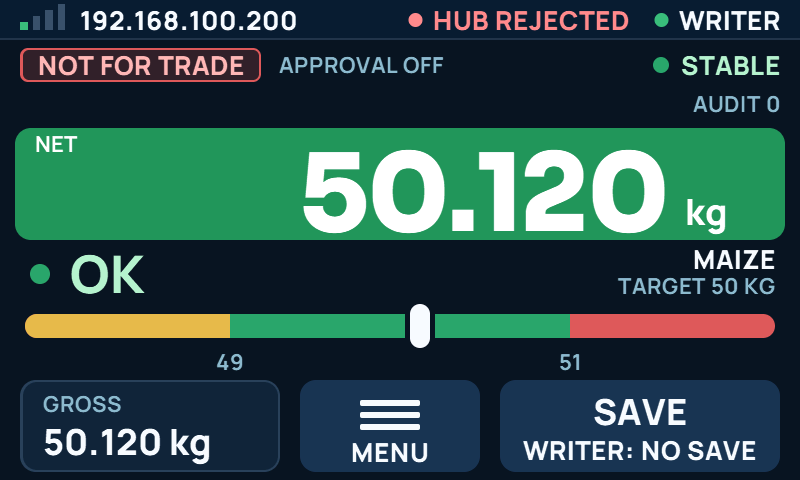
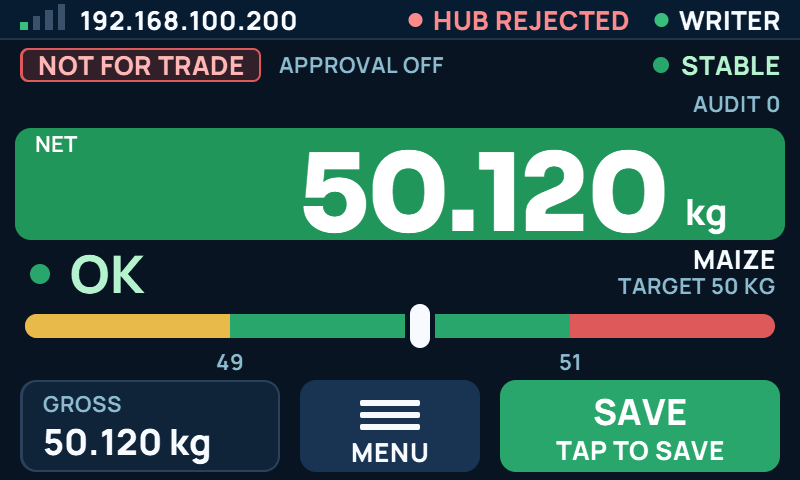
feat(wsoft): a Writer picks its own product and saves through the weigh board
Rhyno, 14 Nov 2026: on the yellow Writer board a product pick was wiped at once
(the Writer copied the weigh board's empty product every loop), and SAVE said
WRITER: NO SAVE.
- Product: the Writer follows the weigh board only when the weigh board picks or
  changes a product; a pick made on the Writer stays until then.
- SAVE: a tap on a Writer sends {"cmd":"save"} on the open /ws/wsoftFeed socket;
  the weigh board saves it with all its own checks, so each load is still
  counted once. The feed carries save_waiting, save_n and save_result so the
  Writer's button shows SAVED / NOT STABLE / ... like the weigh board's.
- Writer SAVE line: TAP TO SAVE, results from the weigh board, SAVED without a
  number (the number lives on the weigh board). Reference, presets, golden CRCs
  and test updated.

Changed region(s): [[0.625, 0.7812, 1.0, 1.0]]

diff --git a/tools/wsoft-ui/ref.js b/tools/wsoft-ui/ref.js
@@ -524,12 +524,13 @@ const WsoftUi = (() => {
     m.pointer = pr && S.linked && !S.alarm && S.hold !== 'blank' ? pointerOf(net, pr.low, pr.high) : -1;
     m.gross = S.linked ? fmtW(S.gross, S.decimals) + ' ' + S.unit : '----';
     const r = S.save.recent;
-    if (S.source === 'WRITER') { m.save_line = 'WRITER: NO SAVE'; m.save_look = LOOK_BTN; }
+    const writer = S.source === 'WRITER';
+    if (writer && r && r.result === 'SAVED') { m.save_line = 'SAVED'; m.save_look = LOOK_ON; }
     else if (r && r.result === 'SAVED') { m.save_line = 'SAVED #' + r.seq; m.save_look = LOOK_ON; }
     else if (r) { m.save_line = RESULT[r.result]; m.save_look = r.result === 'ALREADY' || r.result === 'NEED_ZERO' ? LOOK_BTN : LOOK_BAD; }
     else if (S.waiting === 'ALREADY') { m.save_line = 'TAKE LOAD OFF'; m.save_look = LOOK_BTN; }
-    else if (S.save.pending > 0) { m.save_line = S.save.pending + ' TO SEND'; m.save_look = LOOK_ON; }
-    else { m.save_line = S.save.auto ? 'AUTO SAVE ON' : 'TAP TO SAVE'; m.save_look = LOOK_ON; }
+    else if (!writer && S.save.pending > 0) { m.save_line = S.save.pending + ' TO SEND'; m.save_look = LOOK_ON; }
+    else { m.save_line = !writer && S.save.auto ? 'AUTO SAVE ON' : 'TAP TO SAVE'; m.save_look = LOOK_ON; }
     m.title = ['', 'MENU', 'ENTER PIN', 'APPROVAL', 'WI-FI'][m.page];
     m.message = S.message;
     m.tiles = [];

diff --git a/src/main.cpp b/src/main.cpp
@@ -19,6 +19,7 @@
 #if FT_ENABLED(FT_WSOFT)
 #include <wsoft_screen.h>
 #include <hilo.h>
+#include <weighings.h>
 #endif
 #include "VersionService.h"
 #include "UartModeService.h"
@@ -383,6 +384,8 @@ void setup() {
     uartModeService->setForwarderService(serialWriterForwarderService);
     uartModeService->applyMode();
     wsoft_screen_set_line_reader(wsoftReadWriterWeight);
+    // SAVE on a Writer is saved by the weigh board (Rhyno, 14 Nov 2026), counted once.
+    weighings_set_remote_save(SerialWriterForwarderService::requestSave);
     Serial.println(F("[9/10] W-Soft role: Writer (weight from a weigh board, out of the port)"));
   } else if (wsoftBootSource == WSOFT_SOURCE_RS232) {
     // RS232 scale: the existing Serial reader owns Serial1 (its page sets baud, format
@@ -559,9 +562,37 @@ void loop() {
   if (serialWriterService) serialWriterService->loop();
   if (serialWriterForwarderService) {
     serialWriterForwarderService->loop();
-    // Writer: the same product as the weigh board, so screen, relays and Hub match.
+    // Writer: follows the weigh board's product when the weigh board picks or changes one, so
+    // screen, relays and Hub match. Between changes a product picked on this board stays
+    // (Rhyno, 14 Nov 2026: the Writer picks its own product too). A weigh board with no
+    // product at first contact leaves this board's pick alone.
+    static bool feedProductSeen = false;
+    static String feedProduct;
     String product;
-    if (serialWriterForwarderService->latestProduct(&product)) hilo_follow(product.c_str());
+    if (serialWriterForwarderService->latestProduct(&product)) {
+      if (feedProductSeen ? product != feedProduct : product.length() > 0) hilo_follow(product.c_str());
+      feedProductSeen = true;
+      feedProduct = product;
+    }
+    // Writer: the weigh board's "what stops a save" and each of its Save results on this
+    // screen. No feed for 3 s = no signal (the same 3 s rule as the weight).
+    static uint32_t saveCountSeen = 0;
+    static bool saveCountKnown = false;
+    int saveWaiting = 0, saveResult = 0;
+    uint32_t saveCount = 0;
+    char feedWeight[24];
+    uint32_t feedMs = 0;
+    int feedUnit = 0;
+    bool feedLive = serialWriterForwarderService->latestWeight(feedWeight, sizeof feedWeight, &feedMs, &feedUnit) &&
+                    millis() - feedMs < 3000;
+    if (serialWriterForwarderService->latestSaveStatus(&saveWaiting, &saveCount, &saveResult) && feedLive) {
+      weighings_remote_status((WsoftSaveResult)saveWaiting);
+      if (saveCountKnown && saveCount != saveCountSeen) weighings_remote_result((WsoftSaveResult)saveResult);
+      saveCountKnown = true;
+      saveCountSeen = saveCount;
+    } else {
+      weighings_remote_status(WSOFT_SAVE_NO_SIGNAL);
+    }
   }
   if (wsoftStatusService) wsoftStatusService->loop();
 #if FT_ENABLED(FT_WSOFT_RELAY)

diff --git a/lib/wsoft_esp/src/weighings.cpp b/lib/wsoft_esp/src/weighings.cpp
@@ -21,6 +21,9 @@ static WsoftSaveResult last_result = WSOFT_SAVE_NONE;
 static uint32_t last_result_ms = 0;
 static TradeWeight last_saved;
 static WsoftSaveResult waiting = WSOFT_SAVE_NONE;  // under lock
+static uint32_t result_count = 0;                   // under lock: Save results since boot
+static void (*remote_save)() = nullptr;             // Writer role: Save taps go to the weigh board
+static WsoftSaveResult remote_waiting = WSOFT_SAVE_NO_SIGNAL;  // under lock
 
 // Screen task only.
 static WsoftWeighingSaver saver;
@@ -266,9 +269,10 @@ WsoftSaveResult weighings_update(bool linked, bool fresh, bool alarm, int32_t va
   if (result == WSOFT_SAVE_SAVED) store_saved(saved, for_trade, tare_value, hilo);
 
   portENTER_CRITICAL(&lock);
-  waiting = saver.waiting();
+  waiting = remote_save != nullptr ? remote_waiting : saver.waiting();
   if (tapped) save_answered = requests;
   if (result != WSOFT_SAVE_NONE) {
+    result_count++;
     last_result = result;
     last_result_ms = millis();
   }
@@ -291,9 +295,37 @@ WsoftSaveResult weighings_update(bool linked, bool fresh, bool alarm, int32_t va
 }
 
 void weighings_request_save() {
+  if (remote_save != nullptr) {
+    remote_save();
+    return;
+  }
   portENTER_CRITICAL(&lock);
   save_requests++;
   portEXIT_CRITICAL(&lock);
+}
+
+void weighings_set_remote_save(void (*fn)()) { remote_save = fn; }
+
+void weighings_remote_status(WsoftSaveResult status) {
+  portENTER_CRITICAL(&lock);
+  remote_waiting = status;
+  portEXIT_CRITICAL(&lock);
+}
+
+void weighings_remote_result(WsoftSaveResult result) {
+  if (result == WSOFT_SAVE_NONE) return;
+  portENTER_CRITICAL(&lock);
+  last_result = result;
+  last_result_ms = millis();
+  portEXIT_CRITICAL(&lock);
+  WSOFT_LOG.printf("WEIGH weigh board answered the Save: %s\n", wsoft_save_result_text(result));
+}
+
+uint32_t weighings_result_count() {
+  portENTER_CRITICAL(&lock);
+  uint32_t n = result_count;
+  portEXIT_CRITICAL(&lock);
+  return n;
 }
 
 WsoftSaveResult weighings_save(uint32_t timeout_ms, TradeWeight *saved) {

diff --git a/src/examples/serialwriter/SerialWriterForwarderService.cpp b/src/examples/serialwriter/SerialWriterForwarderService.cpp
@@ -94,6 +94,15 @@ void SerialWriterForwarderService::loop() {
       _backoffMs = 1000;
       _nextRetryMs = now;
     }
+    if (_saveRequested) {
+      _saveRequested = false;
+      if (_wsClient.isConnected()) {
+        _wsClient.sendTXT("{\"cmd\":\"save\"}");
+        Serial.println(F("[SerialWriterForwarder] SAVE sent to the weigh board"));
+      } else {
+        Serial.println(F("[SerialWriterForwarder] SAVE not sent: no link to the weigh board"));
+      }
+    }
     if (!_wsClient.isConnected() && now >= _nextRetryMs) {
       yield();
       connectReader();
@@ -455,6 +464,12 @@ void SerialWriterForwarderService::pollReaderRest() {
 // timestamp, e.g. the backup REST poll) is not sent twice. Nothing is sent without a line,
 // or when the format needs a weight the reading does not have.
 void SerialWriterForwarderService::onReaderData(JsonObject data) {
+  if (data["save_n"].is<uint32_t>()) {
+    _hasSaveStatus = true;
+    _saveWaiting = data["save_waiting"] | 0;
+    _saveCount = data["save_n"] | (uint32_t)0;
+    _saveResult = data["save_result"] | 0;
+  }
   const char* line = data["last_line"] | "";
   if (line[0] == '\0' || !_writerService) return;
   uint32_t timestamp = data["timestamp"] | (uint32_t)0;
@@ -490,6 +505,18 @@ void SerialWriterForwarderService::onReaderData(JsonObject data) {
     s.lastError = ok ? "" : "Not sent: the format needs a weight, or the line is too long";
     return StateUpdateResult::CHANGED;
   }, "fwd-rx");
+}
+
+volatile bool SerialWriterForwarderService::_saveRequested = false;
+
+void SerialWriterForwarderService::requestSave() { _saveRequested = true; }
+
+bool SerialWriterForwarderService::latestSaveStatus(int* waiting, uint32_t* count, int* result) {
+  if (!_hasSaveStatus) return false;
+  *waiting = _saveWaiting;
+  *count = _saveCount;
+  *result = _saveResult;
+  return true;
 }
 
 bool SerialWriterForwarderService::latestProduct(String* code) {

diff --git a/src/examples/wsoft/WSoftStatusService.cpp b/src/examples/wsoft/WSoftStatusService.cpp
@@ -87,6 +87,18 @@ WSoftStatusService::WSoftStatusService(AsyncWebServer* server,
     _feedSocket(WSOFT_FEED_SOCKET_PATH) {
   // The weight feed for a Writer board: open and read-only, like /ws/serial.
   server->addHandler(&_feedSocket);
+  // A Writer's SAVE tap arrives here as {"cmd":"save"} and is saved like a tap on this board,
+  // with all of this board's checks (Rhyno, 14 Nov 2026: the Writer saves through the weigh
+  // board, so each load is counted once). Nothing else is accepted on this socket.
+  _feedSocket.onEvent([this](AsyncWebSocket*, AsyncWebSocketClient*, AwsEventType type, void* arg, uint8_t* data,
+                         size_t len) {
+    if (type != WS_EVT_DATA || _settingsService->writerMode()) return;
+    AwsFrameInfo* info = static_cast<AwsFrameInfo*>(arg);
+    if (!info->final || info->index != 0 || info->len != len || info->opcode != WS_TEXT) return;
+    StaticJsonDocument<64> doc;
+    if (deserializeJson(doc, data, len) != DeserializationError::Ok) return;
+    if (strcmp(doc["cmd"] | "", "save") == 0) weighings_request_save();
+  });
   server->on(WSOFT_FEED_ENDPOINT_PATH, HTTP_GET, [](AsyncWebServerRequest* request) {
     request->send(200, "application/json", feedJson());
   });
@@ -335,6 +347,13 @@ String WSoftStatusService::feedJson() {
   // The product in use, so a Writer can follow it ("" = none).
   WsoftHiloProduct product;
   root["product"] = hilo_current(&product) ? String(product.code) : String();
+  // For a Writer's screen: what stops a save here, and the newest Save result (save_n counts
+  // them, so a Writer shows each one once). Numbers are WsoftSaveResult values.
+  WeighingsInfo weigh;
+  weighings_info(&weigh);
+  root["save_waiting"] = (int)weigh.waiting;
+  root["save_n"] = weighings_result_count();
+  root["save_result"] = (int)weigh.last_result;
   String json;
   serializeJson(doc, json);
   return json;

diff --git a/test/test_wsoft_ui/golden.h b/test/test_wsoft_ui/golden.h
@@ -4,5 +4,5 @@
 
 #include <stdint.h>
 
-static const uint32_t GOLDEN_1X[] = {0x75691630, 0xCB8630B6, 0x13C357CE, 0xC47B0896, 0x57511163, 0xE869EF95, 0x4042B08A, 0x0169D3E2, 0x91E90C57, 0xFDF178CC, 0xCDEDF44E, 0x26D96EE3, 0x205B387A, 0xC8444119, 0x706241EF, 0xAD93FFB4, 0x1E099634, 0xA7C846C0, 0x29F2D94F, 0x292D4BDD, 0xFFB61478, 0xCE17ED72, 0x29601460, 0x91CC4766, 0x926C02B0};
-static const uint32_t GOLDEN_2X[] = {0xB8624AC4, 0xEE8355B3, 0x3DF3B986, 0x12BBD391, 0xC2C7FFCC, 0x1E25A252, 0x087B2AE7, 0x6FA89258, 0x856FCB6E, 0x328374DB, 0x98D1B276, 0x8241D678, 0xCC0B4B47, 0x1A5164EE, 0x563032EB, 0xE434043F, 0x63F98DCA, 0x6F641277, 0x9B7D4A8C, 0x87760814, 0x54E248B5, 0x40334849, 0x7E49473E, 0x69F2874B, 0xEB7C9ED1};
+static const uint32_t GOLDEN_1X[] = {0x75691630, 0xCB8630B6, 0x13C357CE, 0xC47B0896, 0x57511163, 0xE869EF95, 0x4042B08A, 0x0169D3E2, 0x91E90C57, 0xFDF178CC, 0xCDEDF44E, 0x26D96EE3, 0x205B387A, 0xC8444119, 0x706241EF, 0xAD93FFB4, 0x1E099634, 0xA7C846C0, 0x29F2D94F, 0x292D4BDD, 0xFFB61478, 0xCE17ED72, 0x29601460, 0x91CC4766, 0x939E30FA};
+static const uint32_t GOLDEN_2X[] = {0xB8624AC4, 0xEE8355B3, 0x3DF3B986, 0x12BBD391, 0xC2C7FFCC, 0x1E25A252, 0x087B2AE7, 0x6FA89258, 0x856FCB6E, 0x328374DB, 0x98D1B276, 0x8241D678, 0xCC0B4B47, 0x1A5164EE, 0x563032EB, 0xE434043F, 0x63F98DCA, 0x6F641277, 0x9B7D4A8C, 0x87760814, 0x54E248B5, 0x40334849, 0x7E49473E, 0x69F2874B, 0x8E947F25};

diff --git a/lib/wsoft_core/src/wsoft_ui_model.cpp b/lib/wsoft_core/src/wsoft_ui_model.cpp
@@ -204,9 +204,10 @@ static void hilo(const WsoftUiInput &in, WsoftUiModel *m) {
 // queue, then whether a tap or Auto save does the saving. Capitals, like the rest.
 static void save(const WsoftUiInput &in, WsoftUiModel *m) {
   m->save_look = WSOFT_UI_LOOK_ON;
-  if (in.writer) {
-    put(m->save_line, "WRITER: NO SAVE");
-    m->save_look = WSOFT_UI_LOOK_BTN;
+  // A Writer's SAVE is saved by the weigh board (Rhyno, 14 Nov 2026): its results show here,
+  // the weighing number and the queue stay on the weigh board.
+  if (in.writer && in.recent == WSOFT_SAVE_SAVED) {
+    put(m->save_line, "SAVED");
   } else if (in.recent == WSOFT_SAVE_SAVED) {
     snprintf(m->save_line, sizeof m->save_line, "SAVED #%lu", (unsigned long)in.saved_seq);
   } else if (in.recent != WSOFT_SAVE_NONE) {
@@ -215,10 +216,10 @@ static void save(const WsoftUiInput &in, WsoftUiModel *m) {
   } else if (in.waiting == WSOFT_SAVE_ALREADY) {
     put(m->save_line, "TAKE LOAD OFF");
     m->save_look = WSOFT_UI_LOOK_BTN;
-  } else if (in.pending > 0) {
+  } else if (!in.writer && in.pending > 0) {
     snprintf(m->save_line, sizeof m->save_line, "%u TO SEND", (unsigned)in.pending);
   } else {
-    put(m->save_line, in.auto_save ? "AUTO SAVE ON" : "TAP TO SAVE");
+    put(m->save_line, !in.writer && in.auto_save ? "AUTO SAVE ON" : "TAP TO SAVE");
   }
 }
 

diff --git a/test/test_wsoft_ui/test_main.cpp b/test/test_wsoft_ui/test_main.cpp
@@ -468,13 +468,25 @@ void test_model_save_button() {
   wsoft_ui_model(in, &model);
   TEST_ASSERT_EQUAL_STRING("TAKE LOAD OFF", model.save_line);
   TEST_ASSERT_EQUAL(WSOFT_UI_LOOK_BTN, model.save_look);
-  // A Writer never saves: the button says so, greyed.
+  // A Writer's SAVE is saved by the weigh board: a plain TAP TO SAVE (no queue, no Auto save
+  // of its own), and the weigh board's answer, SAVED without a number.
   in.recent = WSOFT_SAVE_NONE;
   in.writer = true;
-  in.waiting = WSOFT_SAVE_WRITER;
+  in.waiting = WSOFT_SAVE_NONE;
+  in.pending = 2;
+  in.auto_save = true;
   wsoft_ui_model(in, &model);
-  TEST_ASSERT_EQUAL_STRING("WRITER: NO SAVE", model.save_line);
-  TEST_ASSERT_EQUAL(WSOFT_UI_LOOK_BTN, model.save_look);
+  TEST_ASSERT_EQUAL_STRING("TAP TO SAVE", model.save_line);
+  TEST_ASSERT_EQUAL(WSOFT_UI_LOOK_ON, model.save_look);
+  in.recent = WSOFT_SAVE_SAVED;
+  wsoft_ui_model(in, &model);
+  TEST_ASSERT_EQUAL_STRING("SAVED", model.save_line);
+  TEST_ASSERT_EQUAL(WSOFT_UI_LOOK_ON, model.save_look);
+  in.recent = WSOFT_SAVE_NOT_STABLE;
+  wsoft_ui_model(in, &model);
+  TEST_ASSERT_EQUAL(WSOFT_UI_LOOK_BAD, model.save_look);
+  in.pending = 0;
+  in.auto_save = false;
 }
 
 void test_model_menu_tiles() {

diff --git a/src/examples/serialwriter/SerialWriterForwarderService.h b/src/examples/serialwriter/SerialWriterForwarderService.h
@@ -34,6 +34,12 @@ class SerialWriterForwarderService : public StatefulService<SerialWriterForwarde
   bool latestWeight(char* weight, size_t size, uint32_t* receivedMs, int* unit);
   // The weigh board's product code ("" = none). False when the source sends no product.
   bool latestProduct(String* code);
+  // A W-Soft Writer's SAVE tap: safe from any task (it only sets a flag); loop() sends
+  // {"cmd":"save"} to the weigh board on the open socket.
+  static void requestSave();
+  // The weigh board's save status from its feed: what stops a save (save_waiting), and its Save
+  // result count (save_n) with the newest result. False until a feed carried them.
+  bool latestSaveStatus(int* waiting, uint32_t* count, int* result);
 
  private:
   HttpEndpoint<SerialWriterForwarderState>  _httpEndpoint;
@@ -57,6 +63,11 @@ class SerialWriterForwarderService : public StatefulService<SerialWriterForwarde
   // says the source is such a feed.
   unsigned long _lastWsDataMs = 0;
   bool          _wsoftFeed = false;
+  static volatile bool _saveRequested;
+  bool     _hasSaveStatus = false;
+  int      _saveWaiting = 0;
+  uint32_t _saveCount = 0;
+  int      _saveResult = 0;
 
   void onConfigChanged();
   void connectReader();

diff --git a/lib/wsoft_esp/src/weighings.h b/lib/wsoft_esp/src/weighings.h
@@ -33,6 +33,17 @@ WsoftSaveResult weighings_save(uint32_t timeout_ms, TradeWeight *saved);
 // Screen task: a tap on the board's own screen (no waiting, the next pass handles it).
 void weighings_request_save();
 
+// Writer role (Rhyno, 14 Nov 2026): a Save tap on this board goes to the weigh board, which
+// saves it, so each load is still counted once. fn runs in the tapping task and must only set
+// a flag. nullptr (the default) = this board saves its own weighings.
+void weighings_set_remote_save(void (*fn)());
+// Writer role: the weigh board's "what stops a save" and each of its Save results, from its
+// feed, shown on this board's screen like its own.
+void weighings_remote_status(WsoftSaveResult waiting);
+void weighings_remote_result(WsoftSaveResult result);
+// Weigh board: Save results (tap or auto) since boot, for the feed; 0 = none yet.
+uint32_t weighings_result_count();
+
 // Screen task only (it writes flash, NVS "weigh" key "auto"), through switches.cpp.
 void weighings_set_auto_save(bool on);
 

diff --git a/lib/wsoft_core/src/gen/wsoft_ui_presets.h b/lib/wsoft_core/src/gen/wsoft_ui_presets.h
@@ -1361,7 +1361,8 @@ inline bool wsoft_ui_preset(int n, WsoftUiModel *m) {
       WSOFT_UI_PRESET_SET(m->high, "51");
       m->pointer = 527;
       WSOFT_UI_PRESET_SET(m->gross, "50.120 kg");
-      WSOFT_UI_PRESET_SET(m->save_line, "WRITER: NO SAVE");
+      WSOFT_UI_PRESET_SET(m->save_line, "TAP TO SAVE");
+      m->save_look = 1;
       m->tiles[0].id = WSOFT_UI_TILE_APPROVAL;
       m->tiles[0].look = 0;
       WSOFT_UI_PRESET_SET(m->tiles[0].caption, "APPROVAL");
